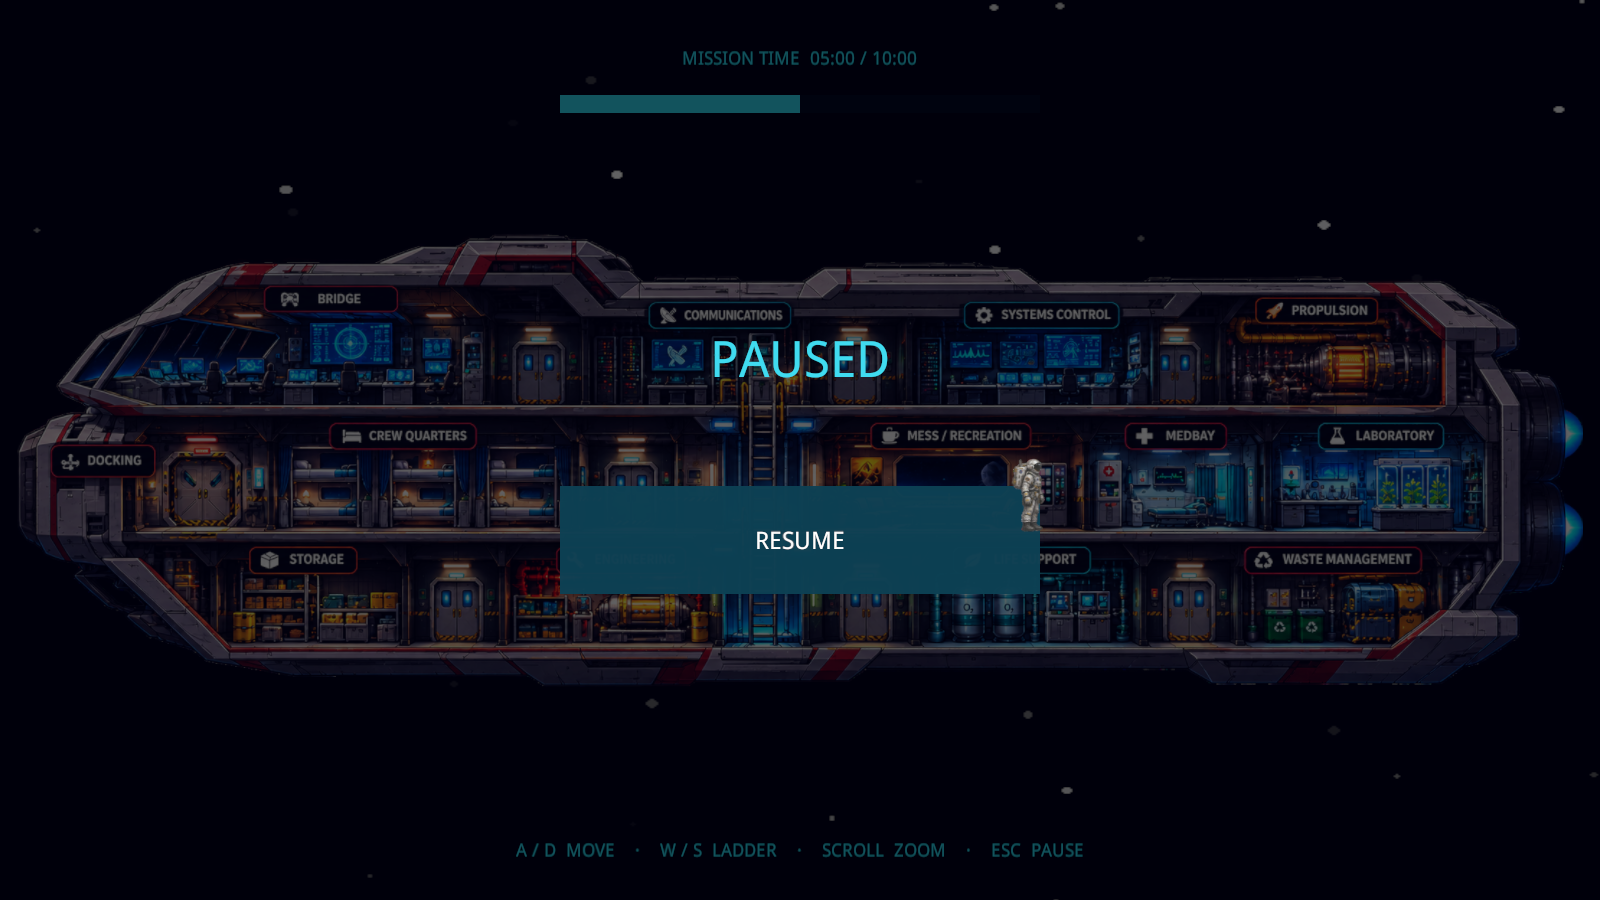
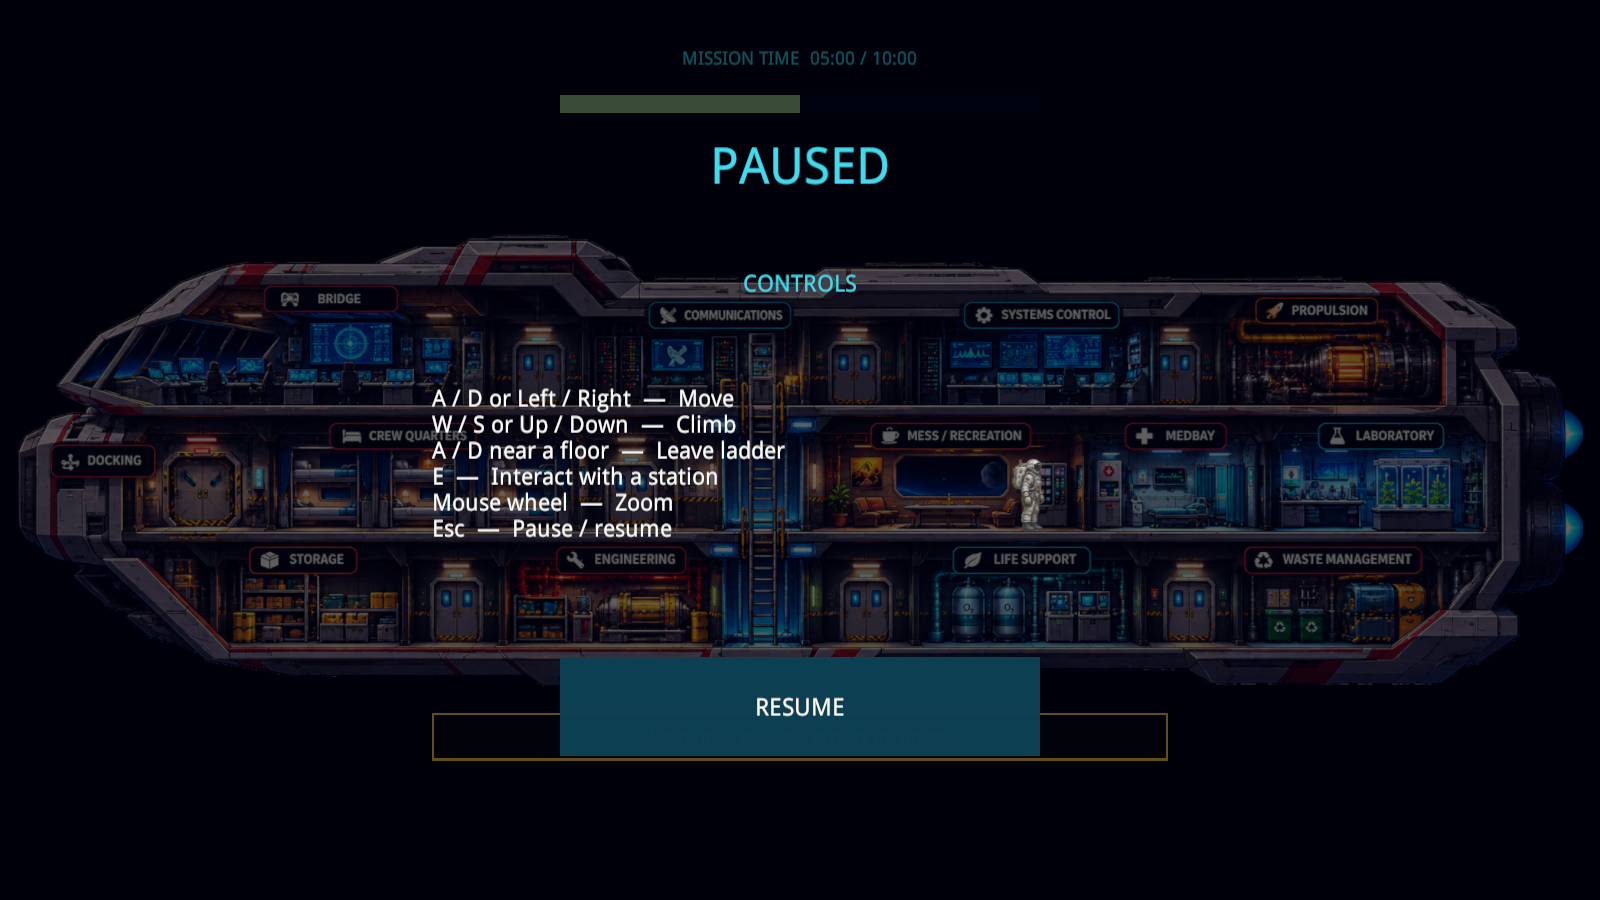
Show controls on boarding and in pause; allow Bridge card reopening

diff --git a/Assets/Scripts/CrewMenu.cs b/Assets/Scripts/CrewMenu.cs
@@ -13,7 +13,10 @@ public sealed class CrewMenu : MonoBehaviour
     private readonly string[] descriptions = { "Coordinate your crew\nand lead the mission.", "Monitor crew health\nand provide medical care.", "Control the flight\nand navigate to the Moon.", "Maintain ship systems\nand repair equipment." };
     private readonly string[] assets = { "Commander", "Medic", "Pilot", "Engineer" };
     private readonly Color cyan = new Color(.25f, .86f, .94f);
-    private GameObject home, roles, missionHud, pauseScreen;
+    private GameObject home, roles, missionHud, pauseScreen, controlsIntro;
+    private float controlsIntroRemaining;
+    private const float ControlsIntroSeconds=10;
+    private const string ControlsText="A / D or Left / Right  —  Move\nW / S or Up / Down  —  Climb\nA / D near a floor  —  Leave ladder\nE  —  Interact with a station\nMouse wheel  —  Zoom\nEsc  —  Pause / resume";
     private ShipMission mission;
     private Canvas backgroundCanvas;
     private Image shade;
@@ -99,7 +102,12 @@ public sealed class CrewMenu : MonoBehaviour
         confirmText = Button(roleArt.transform,"BOARD SHIP",.384f,.128f,.617f,.218f,Confirm);
         confirmText.transform.parent.GetComponent<Image>().color=new Color(.015f,.06f,.08f,1);
         missionHud = Node("Mission HUD", root.transform, Vector2.zero, Vector2.one).gameObject;
-        Label(missionHud.transform, "A / D  MOVE    ·    W / S  LADDER    ·    SCROLL  ZOOM    ·    ESC  PAUSE", .05f,.02f,.95f,.09f, 18, cyan);
+        controlsIntro=Panel(missionHud.transform,"Controls Intro",new Vector2(.045f,.61f),new Vector2(.43f,.85f),new Color(.015f,.04f,.06f,.96f)).gameObject;
+        controlsIntro.GetComponent<Image>().raycastTarget=false;
+        Label(controlsIntro.transform,"CONTROLS",.07f,.78f,.93f,.96f,22,cyan);
+        var introText=Label(controlsIntro.transform,ControlsText,.07f,.06f,.93f,.77f,17,Color.white);
+        introText.alignment=TextAnchor.MiddleLeft;
+        controlsIntro.SetActive(false);
         missionTime = Label(missionHud.transform, "MISSION TIME  00:00 / 10:00", .35f,.91f,.65f,.96f, 18, cyan);
         Panel(missionHud.transform, "Mission Progress Track", new Vector2(.35f,.875f), new Vector2(.65f,.895f), new Color(.02f,.08f,.12f,.9f));
         missionProgress = Panel(missionHud.transform, "Mission Progress", new Vector2(.35f,.875f), new Vector2(.65f,.895f), cyan);
@@ -142,8 +150,11 @@ public sealed class CrewMenu : MonoBehaviour
         missionHud.SetActive(false);
         pauseScreen=Node("Pause Screen",root.transform,Vector2.zero,Vector2.one).gameObject;
         Panel(pauseScreen.transform,"Pause Shade",Vector2.zero,Vector2.one,new Color(.01f,.025f,.05f,.88f));
-        Label(pauseScreen.transform,"PAUSED",.2f,.52f,.8f,.68f,48,cyan);
-        Button(pauseScreen.transform,"RESUME",.35f,.34f,.65f,.46f,TogglePause);
+        Label(pauseScreen.transform,"PAUSED",.2f,.75f,.8f,.88f,48,cyan);
+        Label(pauseScreen.transform,"CONTROLS",.25f,.65f,.75f,.72f,22,cyan);
+        var pauseControls=Label(pauseScreen.transform,ControlsText,.27f,.32f,.73f,.65f,22,Color.white);
+        pauseControls.alignment=TextAnchor.MiddleLeft;
+        Button(pauseScreen.transform,"RESUME",.35f,.16f,.65f,.27f,TogglePause);
         pauseScreen.SetActive(false);
         roles.SetActive(false);
         Select(selected);
@@ -154,6 +165,7 @@ public sealed class CrewMenu : MonoBehaviour
         if (mission != null)
         {
             if(mission.IsPaused) return;
+            UpdateControlsIntro(Time.deltaTime);
             UpdateMissionHint();
             UpdateBridgeSuggestion();
             if (missionCard.activeSelf) UpdateMissionCard();
@@ -243,6 +255,8 @@ public sealed class CrewMenu : MonoBehaviour
             home.SetActive(false); roles.SetActive(false);
             shade.gameObject.SetActive(false); backgroundCanvas.gameObject.SetActive(false);
             missionHud.SetActive(true);
+            controlsIntroRemaining=ControlsIntroSeconds;
+            UpdateControlsIntro(0);
             UpdateBridgeSuggestion();
         }
         catch (System.Exception error)
@@ -265,10 +279,20 @@ public sealed class CrewMenu : MonoBehaviour
     private void TogglePause()
     {
         if(mission==null) return;
+        if(missionCard.activeSelf){CloseMissionCard();return;}
         bool paused=!mission.IsPaused;
         mission.SetPaused(paused);pauseScreen.SetActive(paused);
+        UpdateControlsIntro(0);
         if(EventSystem.current!=null)
             EventSystem.current.SetSelectedGameObject(paused?pauseScreen.GetComponentInChildren<Button>().gameObject:null);
+    }
+    private void UpdateControlsIntro(float delta)
+    {
+        if(mission==null) return;
+        bool covered=mission.IsPaused || missionCard.activeSelf;
+        if(!covered) controlsIntroRemaining=Mathf.Max(0,controlsIntroRemaining-Mathf.Max(0,delta));
+        bool visible=controlsIntroRemaining>0 && !covered;
+        if(controlsIntro.activeSelf!=visible) controlsIntro.SetActive(visible);
     }
     private void UpdateMissionHint()
     {
@@ -276,9 +300,9 @@ public sealed class CrewMenu : MonoBehaviour
         if (mission.NearbyMission != null)
         {
             var status = mission.GetMissionStatus(mission.NearbyMission);
-            hint = status == ShipMissionStatus.InProgress
-                ? "PRESS E TO VIEW CHECK  ·  " + mission.NearbyMission.title
-                : "PRESS E TO INTERACT  ·  " + mission.NearbyMission.title;
+            hint = status == ShipMissionStatus.Available
+                ? "PRESS E TO INTERACT  ·  " + mission.NearbyMission.title
+                : "PRESS E TO VIEW CHECK  ·  " + mission.NearbyMission.title;
         }
         else if (mission.ActiveMission != null)
             hint = "CHECK PAUSED  ·  RETURN TO " + mission.ActiveMission.locationName.ToUpperInvariant();
@@ -294,8 +318,10 @@ public sealed class CrewMenu : MonoBehaviour
     }
     private void OpenMissionCard(ShipMissionDefinition definition)
     {
+        if(mission==null || definition==null) return;
         selectedMission = definition;
         bridgeSuggestion.SetActive(false);
+        controlsIntro.SetActive(false);
         mission.SetPaused(true);
         missionCardShade.SetActive(true);
         missionCard.SetActive(true);
@@ -350,10 +376,12 @@ public sealed class CrewMenu : MonoBehaviour
     }
     private void CloseMissionCard()
     {
-        if (mission != null) mission.SetPaused(false);
         missionCard.SetActive(false);
         missionCardShade.SetActive(false);
-        selectedMission = null;
+        selectedMission=null;
+        pauseScreen.SetActive(false);
+        if(EventSystem.current!=null) EventSystem.current.SetSelectedGameObject(null);
+        if(mission!=null){mission.SetPaused(false);UpdateControlsIntro(0);}
     }
     private void ReturnToMenu()
     {
@@ -361,6 +389,7 @@ public sealed class CrewMenu : MonoBehaviour
         pauseScreen.SetActive(false);
         Destroy(mission.gameObject); mission = null;
         missionHud.SetActive(false);
+        controlsIntroRemaining=0;controlsIntro.SetActive(false);
         ShowVideoInMenu();
         shade.gameObject.SetActive(true); backgroundCanvas.gameObject.SetActive(true);
         ShowRoles(true);

diff --git a/Tools/ValidateControlsAndBridge.cs b/Tools/ValidateControlsAndBridge.cs
@@ -1,0 +1,33 @@
+void Check(bool ok,string message){if(!ok)throw new System.Exception(message);}
+var flags=System.Reflection.BindingFlags.NonPublic|System.Reflection.BindingFlags.Instance;
+var menu=UnityEngine.Object.FindAnyObjectByType<CrewMenu>();
+float Remaining()=>(float)typeof(CrewMenu).GetField("controlsIntroRemaining",flags).GetValue(menu);
+UnityEngine.GameObject Intro()=>(UnityEngine.GameObject)typeof(CrewMenu).GetField("controlsIntro",flags).GetValue(menu);
+void Click(string name){var button=UnityEngine.Object.FindObjectsByType<UnityEngine.UI.Button>().Single(x=>x.name==name);UnityEngine.EventSystems.ExecuteEvents.Execute(button.gameObject,new UnityEngine.EventSystems.PointerEventData(UnityEngine.EventSystems.EventSystem.current){button=UnityEngine.EventSystems.PointerEventData.InputButton.Left},UnityEngine.EventSystems.ExecuteEvents.pointerClickHandler);}
+if(UnityEngine.Object.FindAnyObjectByType<ShipMission>()!=null){menu.SendMessage("ReturnToMenu");await System.Threading.Tasks.Task.Delay(100);}
+menu.SendMessage("Select",2);menu.SendMessage("Confirm");await System.Threading.Tasks.Task.Delay(100);
+var mission=UnityEngine.Object.FindAnyObjectByType<ShipMission>();Check(mission!=null,"Boarding failed");
+Check(Intro().activeInHierarchy,"Intro controls not visible at boarding");
+var introText=Intro().GetComponentsInChildren<UnityEngine.UI.Text>().Single(x=>x.text.Contains("Mouse wheel"));
+Check(introText.text.Contains("E  —  Interact") && introText.text.Contains("Leave ladder"),"Controls incomplete");
+Check(!UnityEngine.Object.FindObjectsByType<UnityEngine.UI.Text>().Any(x=>x.text.Contains("A / D  MOVE")),"Permanent controls strip still visible");
+menu.SendMessage("UpdateControlsIntro",3f);float remaining=Remaining();
+menu.SendMessage("TogglePause");Check(mission.IsPaused&&!Intro().activeSelf,"Intro not hidden by pause");
+var pause=UnityEngine.GameObject.Find("Pause Screen");Check(pause.GetComponentsInChildren<UnityEngine.UI.Text>().Any(x=>x.text==introText.text),"Pause controls differ from intro");
+menu.SendMessage("UpdateControlsIntro",100f);Check(Remaining()==remaining,"Intro timer advanced in pause");
+Click("RESUME");Check(!mission.IsPaused&&Intro().activeSelf&&Remaining()<=remaining,"Resume resets intro timer");
+menu.SendMessage("UpdateControlsIntro",20f);Check(!Intro().activeSelf&&Remaining()==0,"Intro failed to expire");
+menu.SendMessage("TogglePause");Check(pause.GetComponentsInChildren<UnityEngine.UI.Text>().Any(x=>x.text==introText.text),"Controls not available after intro expired");Click("RESUME");Check(!Intro().activeSelf,"Expired intro reappeared");
+var definition=UnityEngine.Resources.Load<ShipMissionDefinition>("Missions/G01_LEO_Check");var player=UnityEngine.Object.FindAnyObjectByType<CrewCharacter>();
+player.transform.position=new UnityEngine.Vector3(definition.WorldPosition.x,definition.WorldPosition.y,-1);typeof(ShipMission).GetField("deck",flags).SetValue(mission,definition.deck);
+var card=(UnityEngine.GameObject)typeof(CrewMenu).GetField("missionCard",flags).GetValue(menu);
+for(int i=0;i<3;i++){Check(mission.TryInteract()&&card.activeSelf&&mission.IsPaused,"Cannot reopen available Bridge check");Click("CLOSE");Check(!card.activeSelf&&!mission.IsPaused&&UnityEngine.EventSystems.EventSystem.current.currentSelectedGameObject==null,"CLOSE does not restore input");}
+typeof(ShipMission).GetField("missionClock",flags).SetValue(mission,definition.availableUntilSeconds+1);
+Check(mission.TryInteract()&&card.activeSelf,"Cannot review Bridge after start window");
+var start=(UnityEngine.UI.Text)typeof(CrewMenu).GetField("missionStartButton",flags).GetValue(menu);Check(!start.transform.parent.gameObject.activeSelf,"Expired check can be started");Click("CLOSE");Check(mission.TryInteract(),"Expired card only opens once");
+// Escape from a station dialog closes that dialog rather than leaving an invisible input-blocking shade.
+menu.SendMessage("TogglePause");Check(!card.activeSelf&&!mission.IsPaused,"Escape does not close station card");
+typeof(ShipMission).GetField("missionClock",flags).SetValue(mission,0f);Check(mission.TryInteract(),"Available card lost after reviewing expiration");
+Click("START CHECK");Check(mission.ActiveMission==definition,"Check did not start");Click("CLOSE");Check(mission.TryInteract()&&mission.ActiveMission==definition,"Cannot reopen running check");Click("CLOSE");
+mission.SendMessage("UpdateActiveMission",definition.durationSeconds);Check(mission.GetMissionStatus(definition)==ShipMissionStatus.Completed,"Check did not complete");Check(mission.TryInteract()&&card.activeSelf,"Completed check cannot be reviewed");Click("CLOSE");
+return "PASS: 10-second intro, pause freezes countdown, identical controls always in pause, expired intro stays hidden; Bridge CLOSE/reopen repeated, available/running/completed/expired review and Escape close preserve input";

diff --git a/Assets/Scripts/ShipMission.cs b/Assets/Scripts/ShipMission.cs
@@ -84,9 +84,16 @@ public sealed class ShipMission : MonoBehaviour
         MoveCrew(x, y, delta);
         UpdateActiveMission(delta);
         UpdateNearbyMission();
-        if (keys != null && keys.eKey.wasPressedThisFrame && nearbyMission != null)
-            MissionInteractionRequested?.Invoke(nearbyMission);
+        if (keys != null && keys.eKey.wasPressedThisFrame) TryInteract();
         if (Mouse.current != null) zoom = ShipLayout.ZoomAfterScroll(zoom, Mouse.current.scroll.ReadValue().y);
+    }
+    public bool TryInteract()
+    {
+        if(!ready || IsPaused) return false;
+        UpdateNearbyMission();
+        if(nearbyMission==null) return false;
+        MissionInteractionRequested?.Invoke(nearbyMission);
+        return true;
     }
     public ShipMissionStatus GetMissionStatus(ShipMissionDefinition definition)
     {
@@ -137,7 +144,8 @@ public sealed class ShipMission : MonoBehaviour
         {
             if (definition == null || !definition.AllowsRole(player.Role)) continue;
             var status = GetMissionStatus(definition);
-            if (status != ShipMissionStatus.Available && status != ShipMissionStatus.InProgress) continue;
+            // Viewing the card is independent from whether its check can still be started.
+            if (status == ShipMissionStatus.Unavailable) continue;
             if (!IsNearMission(definition)) continue;
             float distance = Mathf.Abs(player.transform.position.x - definition.WorldPosition.x);
             if (distance < closest) { closest = distance; nearbyMission = definition; }

diff --git a/Artifacts/ship-validation.md b/Artifacts/ship-validation.md
@@ -19,3 +19,5 @@ Integrated origin/adrian commit 5b191c62: updated starfield and playback timing,
 Current ladder regression: continuous W/S passes the middle deck without detaching; A/D is the only exit command beside a floor. Entry alignment and horizontal exit move at bounded speed, never teleport. No-input movement holds position. A fixed Idle pose eliminates frame-to-frame visual drift; 200 idle updates were checked for each role. New holographic role artwork is used with Commander/Pilot/Engineer/Medic click areas.
 
 Menu/Bridge guidance: START and all four role hit areas remain clickable with no hover, focus, pressed or selected fill. The Bridge suggestion is yellow on an opaque backing/border, appears only while the check is available, and hides for the mission card, skip and completion. Briefing and skip status no longer describe negative consequences. Validated with Tools/ValidateMenuHint.cs.
+
+Controls/Bridge reopening: verified 10-second intro dismissal, frozen intro countdown during pause, full controls always available in pause, no reappearance after expiry, repeated CLOSE/E cycles, and review of available/in-progress/completed/expired Bridge cards. Esc closes the station modal and restores input. See Tools/ValidateControlsAndBridge.cs and controls-intro.png.

diff --git a/README.md b/README.md
@@ -16,3 +16,5 @@ The mission HUD includes a ten-minute progress timer.
 For automated verification with the Unity Pipeline CLI, start Play Mode, then run `unity command --project-path . "script eval" --file Tools/ValidateMenuClicks.cs` and `unity command --project-path . "script eval" --file Tools/ValidateModernShip.cs`. They run UI pointer/raycast checks and verify all roles, floor bounds, ladders, smooth zoom and progress fill geometry. Test render captures are written to the system temporary directory.
 
 Pause/ladder regression check: `unity command --project-path . "script eval" --file Tools/ValidatePauseAndLadders.cs`.
+
+Controls are shown for the first 10 seconds of gameplay and remain available in the pause menu. The introduction timer stops while paused or reading a mission card. E can reopen a station card to review its status even after its start window closes.
